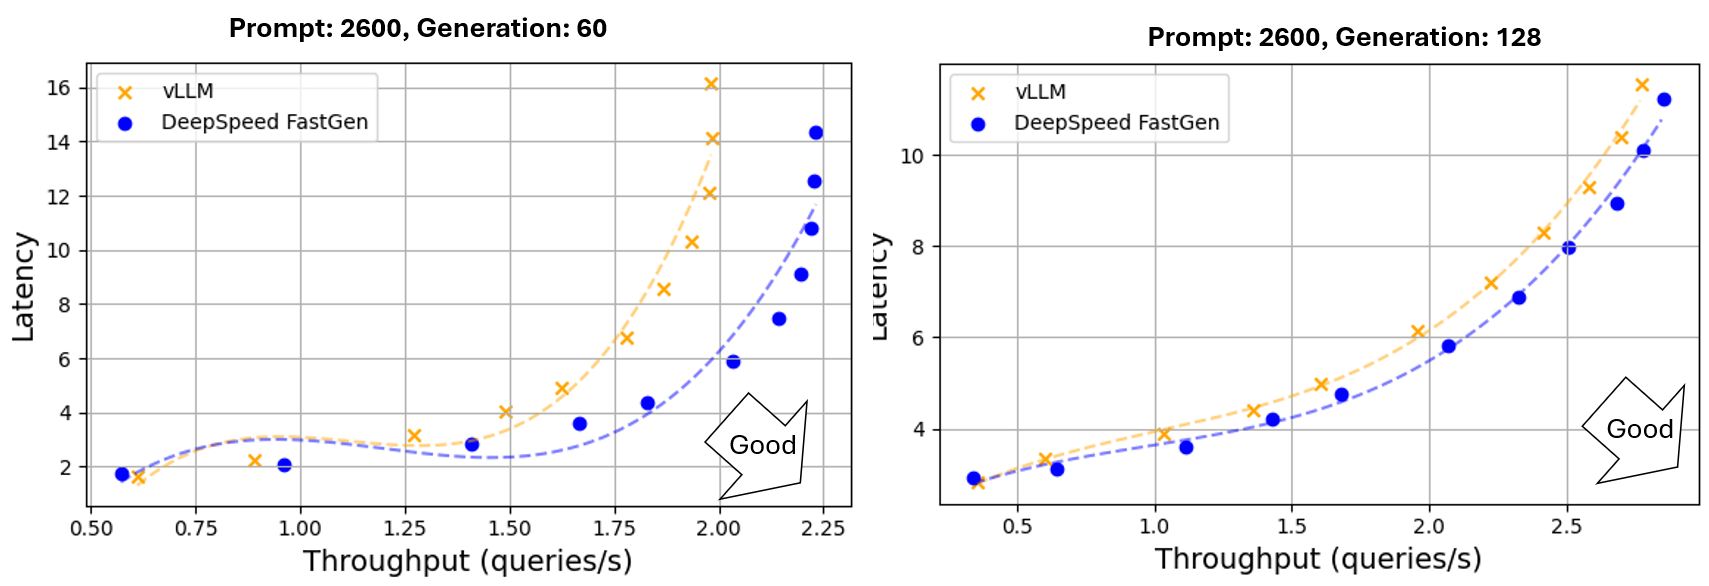
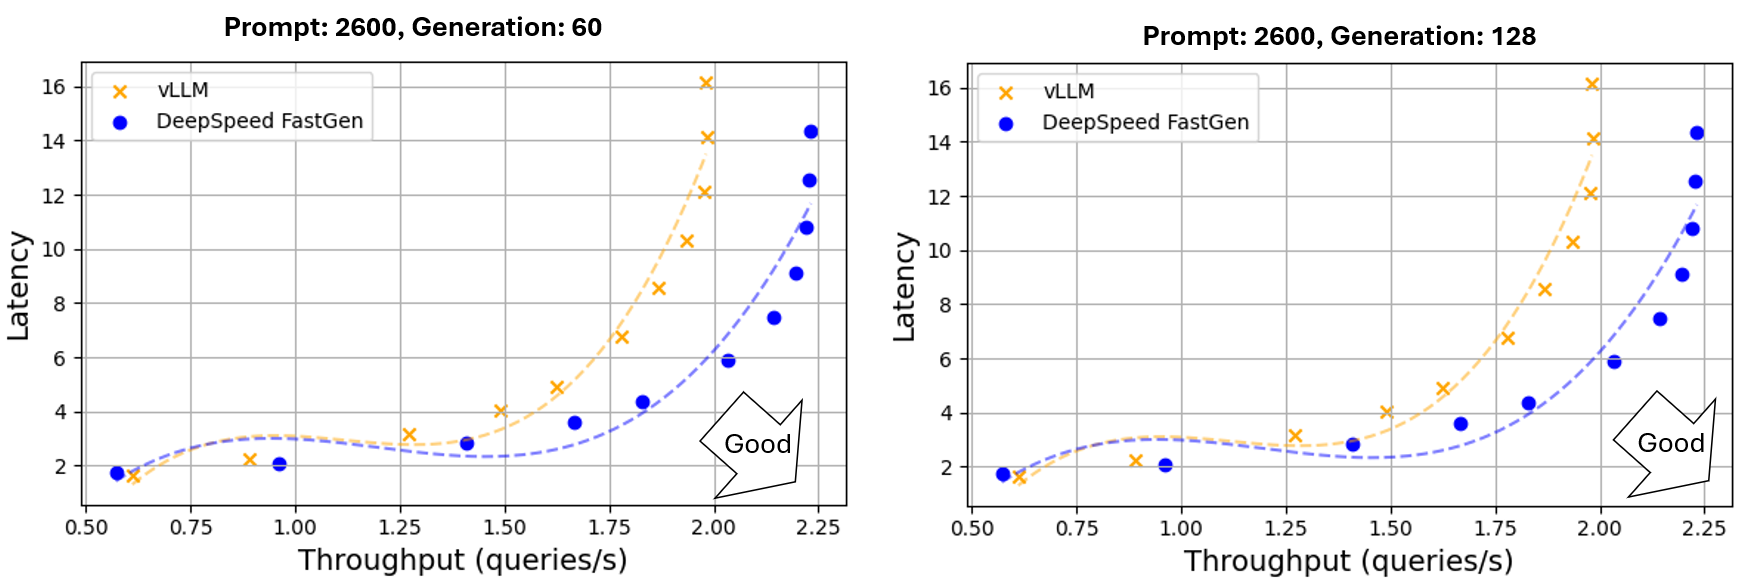
Fix figure in FlexGen blog (#4624)
Fix the latency-throughput figure for 13B.

Changed region(s): [[0.0, 0.0307, 1.0, 0.9829], [0.124, 0.0307, 0.3721, 0.0614]]

diff --git a/blogs/deepspeed-fastgen/README.md b/blogs/deepspeed-fastgen/README.md
@@ -145,7 +145,7 @@ In this experiment, DeepSpeed-FastGen outperforms vLLM in both throughput and la
 </div><br>
 
 <div align="center">
-  <img src="assets/images/throughput_latency_13B.png" alt="" width="850"/><br>
+  <img src="assets/images/throughput_latency_13B_no_arrow.png" alt="" width="850"/><br>
 
   *Figure 3: Throughput and latency of text generation using Llama 2 13B (A100-80GB GPU, no tensor parallelism). A normal distribution was applied to prompt and generation lengths with averages of 1200/2600 and 60/128, respectively, and a 30% variance*
 </div>
